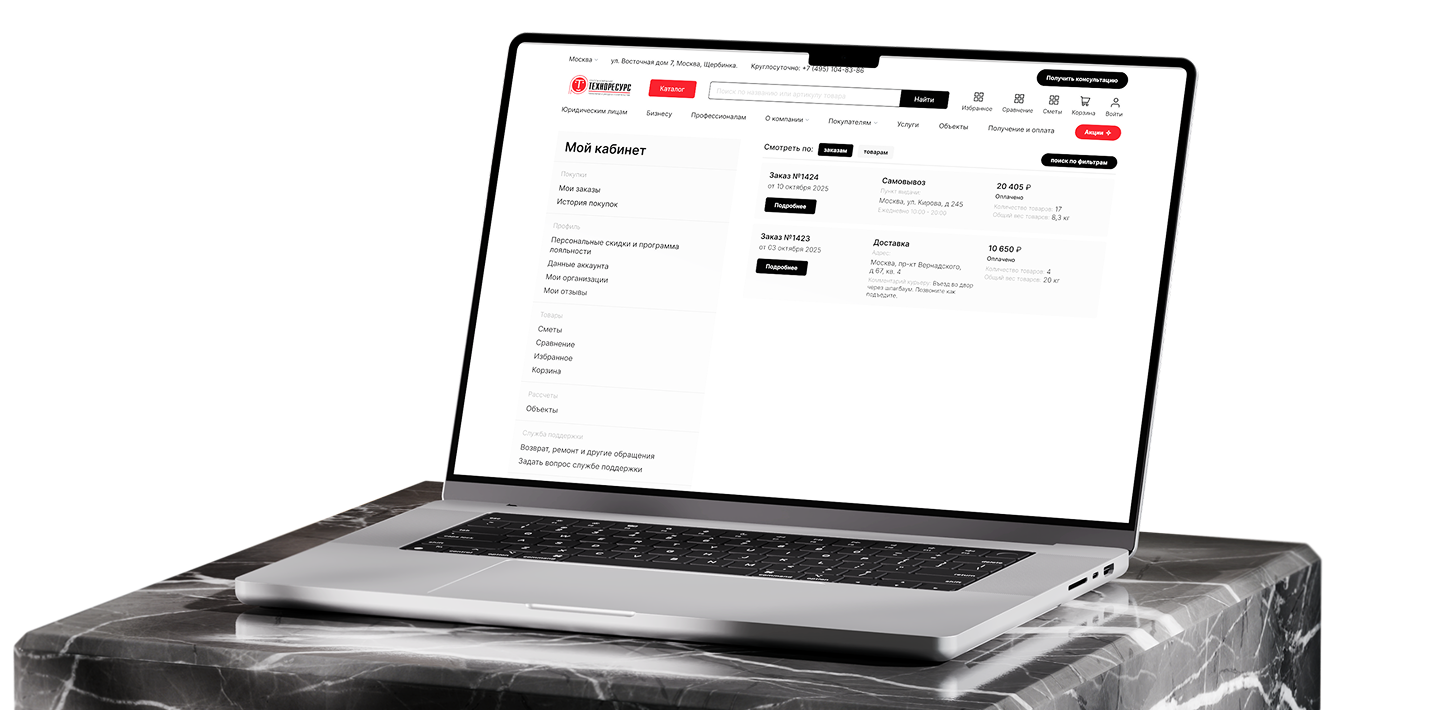
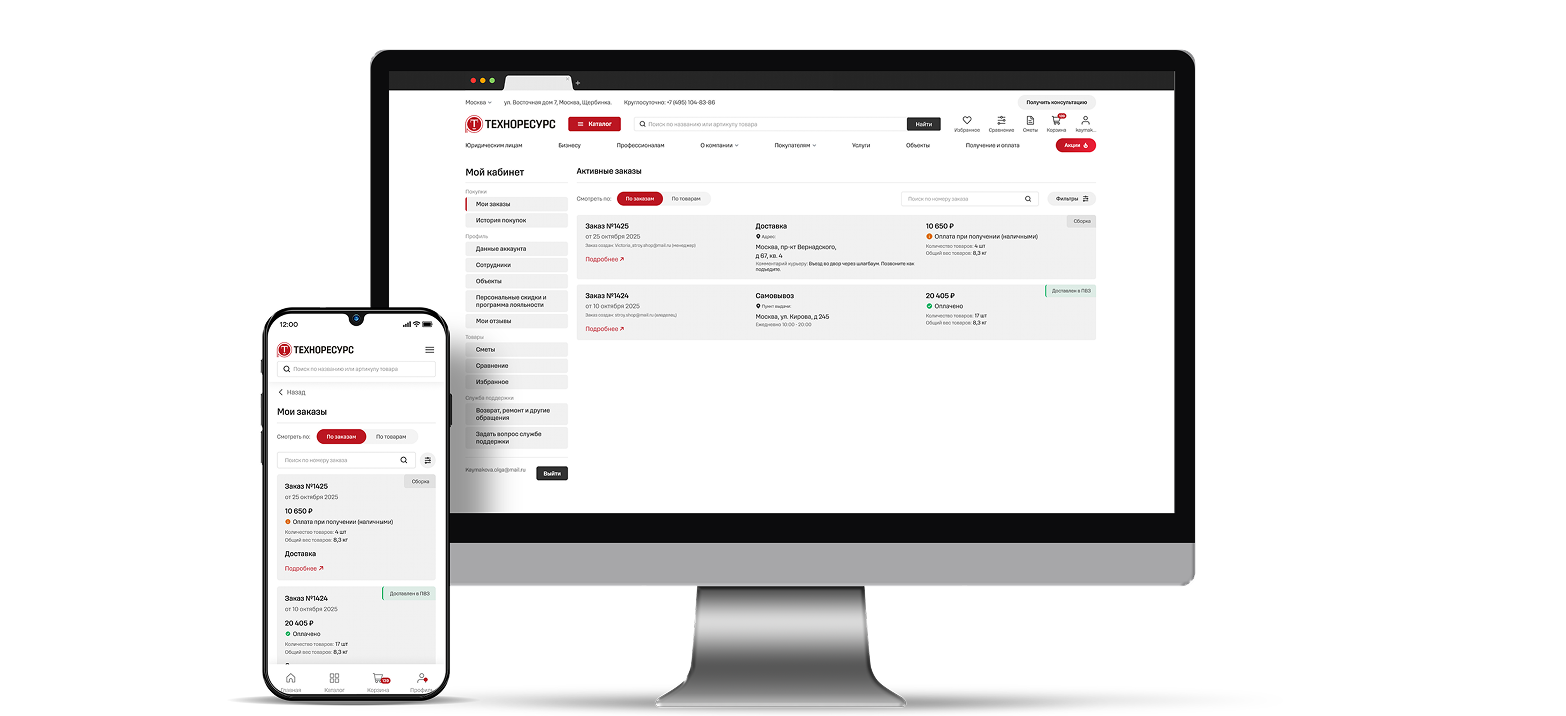
Правки по таблице 2

diff --git a/index.html b/index.html
@@ -1000,8 +1000,9 @@
         <video class="mobile pt swipe-video" autoplay muted loop playsinline>
           <source src="./video/swipe.mp4" type="video/mp4" />
         </video>
-        <div class="products-container">
-          <div class="products-box">
+        <div class="products-container products-discount-slider swiper">
+          <div class="swiper-wrapper">
+          <div class="products-box swiper-slide">
             <div class="products-discount-promo">
               -25 %
             </div>
@@ -1079,7 +1080,7 @@
             </div>
           </div>
 
-          <div class="products-box">
+          <div class="products-box swiper-slide">
             <div class="products-discount-promo">
               -25 %
             </div>
@@ -1157,7 +1158,7 @@
             </div>
           </div>
 
-          <div class="products-box">
+          <div class="products-box swiper-slide">
             <div class="products-promo">
               Акция 1+1
             </div>
@@ -1236,7 +1237,7 @@
           </div>
 
 
-          <div class="products-box">
+          <div class="products-box swiper-slide">
             <div class="products-settings">
               <div class="products-settings-box">
                 <svg width="18" height="18" viewBox="0 0 18 18" fill="none" xmlns="http://www.w3.org/2000/svg">
@@ -1306,7 +1307,7 @@
             </div>
           </div>
 
-          <div class="products-box">
+          <div class="products-box swiper-slide">
             <div class="products-promo">
               Ликвидация
             </div>
@@ -1382,7 +1383,10 @@
               </div>
             </div>
           </div>
+          </div>
         </div>
+        <div class="swiper-button-next-unique-products"></div>
+        <div class="swiper-button-prev-unique-products"></div>
         <a class="products-more">Смотреть каталог</a>
       </div>
     </section>
@@ -2082,6 +2086,26 @@
       },
     })
 
+
+    new Swiper('.products-discount-slider', {
+      slidesPerView: 'auto',
+      loopFillGroupBlank: false,
+      spaceBetween: 0,
+      watchOverflow: false,
+      navigation: {
+        nextEl: '.swiper-button-next-unique-products',
+        prevEl: '.swiper-button-prev-unique-products',
+      },
+      loop: true,
+      breakpoints: {
+        320: {
+          enabled: false,
+        },
+        1280: {
+          enabled: true,
+        }
+      }
+    })
 
     new Swiper('.brands-slider', {
       slidesPerView: 'auto',

diff --git a/vendor/css/style.css b/vendor/css/style.css
@@ -779,11 +779,64 @@ ul .main-cards-link::after {
   display: flex;
   flex-direction: column;
   gap: 1.66vw;
+  position: relative;
 }
 
 .products-container {
   display: flex;
   gap: 0.69vw;
+}
+
+.products .swiper-button-next-unique-products,
+.products .swiper-button-prev-unique-products {
+  display: block;
+  position: absolute;
+  top: 0.28vw;
+  margin: 0;
+  margin-top: 0;
+  transform: none;
+  color: transparent;
+  background-size: contain;
+  background-repeat: no-repeat;
+  background-position: center;
+  height: 1.66vw;
+  width: 1.66vw;
+  z-index: 5;
+  cursor: pointer;
+}
+
+.products .swiper-button-next-unique-products {
+  right: 0 !important;
+  left: auto !important;
+  background-image: url(../../img/arrow-next-promo-list.svg);
+}
+
+.products .swiper-button-prev-unique-products {
+  right: 2.22vw !important;
+  left: auto !important;
+  background-image: url(../../img/arrow-prev-promo-list.svg);
+}
+
+.products .swiper-button-next-unique-products:hover {
+  background-image: url(../../img/arrow-next-promo-list-hover.svg);
+}
+
+.products .swiper-button-prev-unique-products:hover {
+  transform: rotate(180deg);
+  background-image: url(../../img/arrow-next-promo-list-hover.svg);
+}
+
+.products .swiper-button-next-unique-products::after,
+.products .swiper-button-prev-unique-products::after {
+  content: none;
+}
+
+.products-discount-slider {
+  overflow: hidden;
+}
+
+.products-discount-slider .products-box {
+  margin-right: 0.69vw;
 }
 
 .products-box {
@@ -2219,10 +2272,10 @@ ul .main-cards-link::after {
 
 .retail-control-img {
   position: absolute;
-  top: -2.63vw;
+  top: -1.63vw;
   right: calc(((100vw - 83.33vw) / -2));
-  width: 50.27vw;
-  height: 25.83vw;
+  width: 54.37vw;
+  height: 24.86vw;
 }
 
 .retail-control-img img {

diff --git a/vendor/css/media-1400.css b/vendor/css/media-1400.css
@@ -727,11 +727,64 @@ ul .main-cards-link::after {
   display: flex;
   flex-direction: column;
   gap: 24px;
+  position: relative;
 }
 
 .products-container {
   display: flex;
   gap: 10px;
+}
+
+.products .swiper-button-next-unique-products,
+.products .swiper-button-prev-unique-products {
+  display: block;
+  position: absolute;
+  top: 4px;
+  margin: 0;
+  margin-top: 0;
+  transform: none;
+  color: transparent;
+  background-size: contain;
+  background-repeat: no-repeat;
+  background-position: center;
+  height: 24px;
+  width: 24px;
+  z-index: 5;
+  cursor: pointer;
+}
+
+.products .swiper-button-next-unique-products {
+  right: 0 !important;
+  left: auto !important;
+  background-image: url(../../img/arrow-next-promo-list.svg);
+}
+
+.products .swiper-button-prev-unique-products {
+  right: 32px !important;
+  left: auto !important;
+  background-image: url(../../img/arrow-prev-promo-list.svg);
+}
+
+.products .swiper-button-next-unique-products:hover {
+  background-image: url(../../img/arrow-next-promo-list-hover.svg);
+}
+
+.products .swiper-button-prev-unique-products:hover {
+  transform: rotate(180deg);
+  background-image: url(../../img/arrow-next-promo-list-hover.svg);
+}
+
+.products .swiper-button-next-unique-products::after,
+.products .swiper-button-prev-unique-products::after {
+  content: none;
+}
+
+.products-discount-slider {
+  overflow: hidden;
+}
+
+.products-discount-slider .products-box {
+  margin-right: 10px;
 }
 
 .products-box {
@@ -2129,10 +2182,10 @@ ul .main-cards-link::after {
 
   .retail-control-img {
     position: absolute;
-    top: -38px;
+    top: -28px;
     right: -25px;
-    width: 724px;
-    height: 372px;
+    width: 783px;
+    height: 358px;
   }
 
   .retail-control-img img {

diff --git a/vendor/css/media-pt.css b/vendor/css/media-pt.css
@@ -948,13 +948,13 @@
 
   .retail-control-img {
     position: absolute;
-    top: 3.39vw;
-    right: calc((100vw - 94.79vw) / -2);
+    top: 1.39vw;
+    right: calc(((100vw - 94.79vw) / -2) - 12.19vw);
     bottom: auto;
     left: auto;
     z-index: 0;
-    width: 66.41vw;
-    height: 34.11vw;
+    width: 71.48vw;
+    height: 32.68vw;
     border-radius: 1.3vw;
     overflow: hidden;
     pointer-events: none;
@@ -21337,6 +21337,11 @@ input:checked + .slider:before {
     margin: 0;
   }
 
+  main .swiper-button-next-unique-products,
+  main .swiper-button-prev-unique-products {
+    display: none;
+  }
+
   main .swipe-video {
     display: none;
     width: 0;
@@ -21377,6 +21382,25 @@ input:checked + .slider:before {
 
   main .products-box:nth-child(n+5) {
     display: flex;
+  }
+
+  main .products-discount-slider.products-container {
+    display: grid;
+    overflow: visible;
+  }
+
+  main .products-discount-slider .swiper-wrapper {
+    display: contents;
+    transform: none !important;
+    width: auto !important;
+  }
+
+  main .products-discount-slider .products-box {
+    width: 100% !important;
+    height: auto !important;
+    min-width: 0 !important;
+    max-width: none !important;
+    margin: 0 !important;
   }
 
   main .products-settings {

diff --git a/vendor/css/media-mobile.css b/vendor/css/media-mobile.css
@@ -735,6 +735,29 @@ ul .main-cards-link::after {
   position: relative;
 }
 
+.swiper-button-next-unique-products,
+.swiper-button-prev-unique-products {
+  display: none;
+}
+
+.products-discount-slider.products-container {
+  overflow-x: scroll;
+  overflow-y: hidden;
+}
+
+.products-discount-slider .swiper-wrapper {
+  display: flex;
+  gap: 2.22vw;
+  transform: none !important;
+  width: max-content !important;
+}
+
+.products-discount-slider .products-box {
+  width: 43.33vw !important;
+  margin-right: 0 !important;
+  flex-shrink: 0;
+}
+
 .swipe-video {
   position: absolute;
   top: -1.5vw;
@@ -2253,10 +2276,10 @@ ul .main-cards-link::after {
   .retail-control-img {
     position: absolute;
     top: auto;
-    bottom: 0;
-    right: calc(((100vw - 75.88vw) / -2));
-    width: 118vw;
-    height: 60.55vw;
+    bottom: 5vw;
+    right: calc(((100vw - 48.88vw) / -2));
+    width: 131.66vw;
+    height: 60.27vw;
   }
 
   .retail-control-img img {
